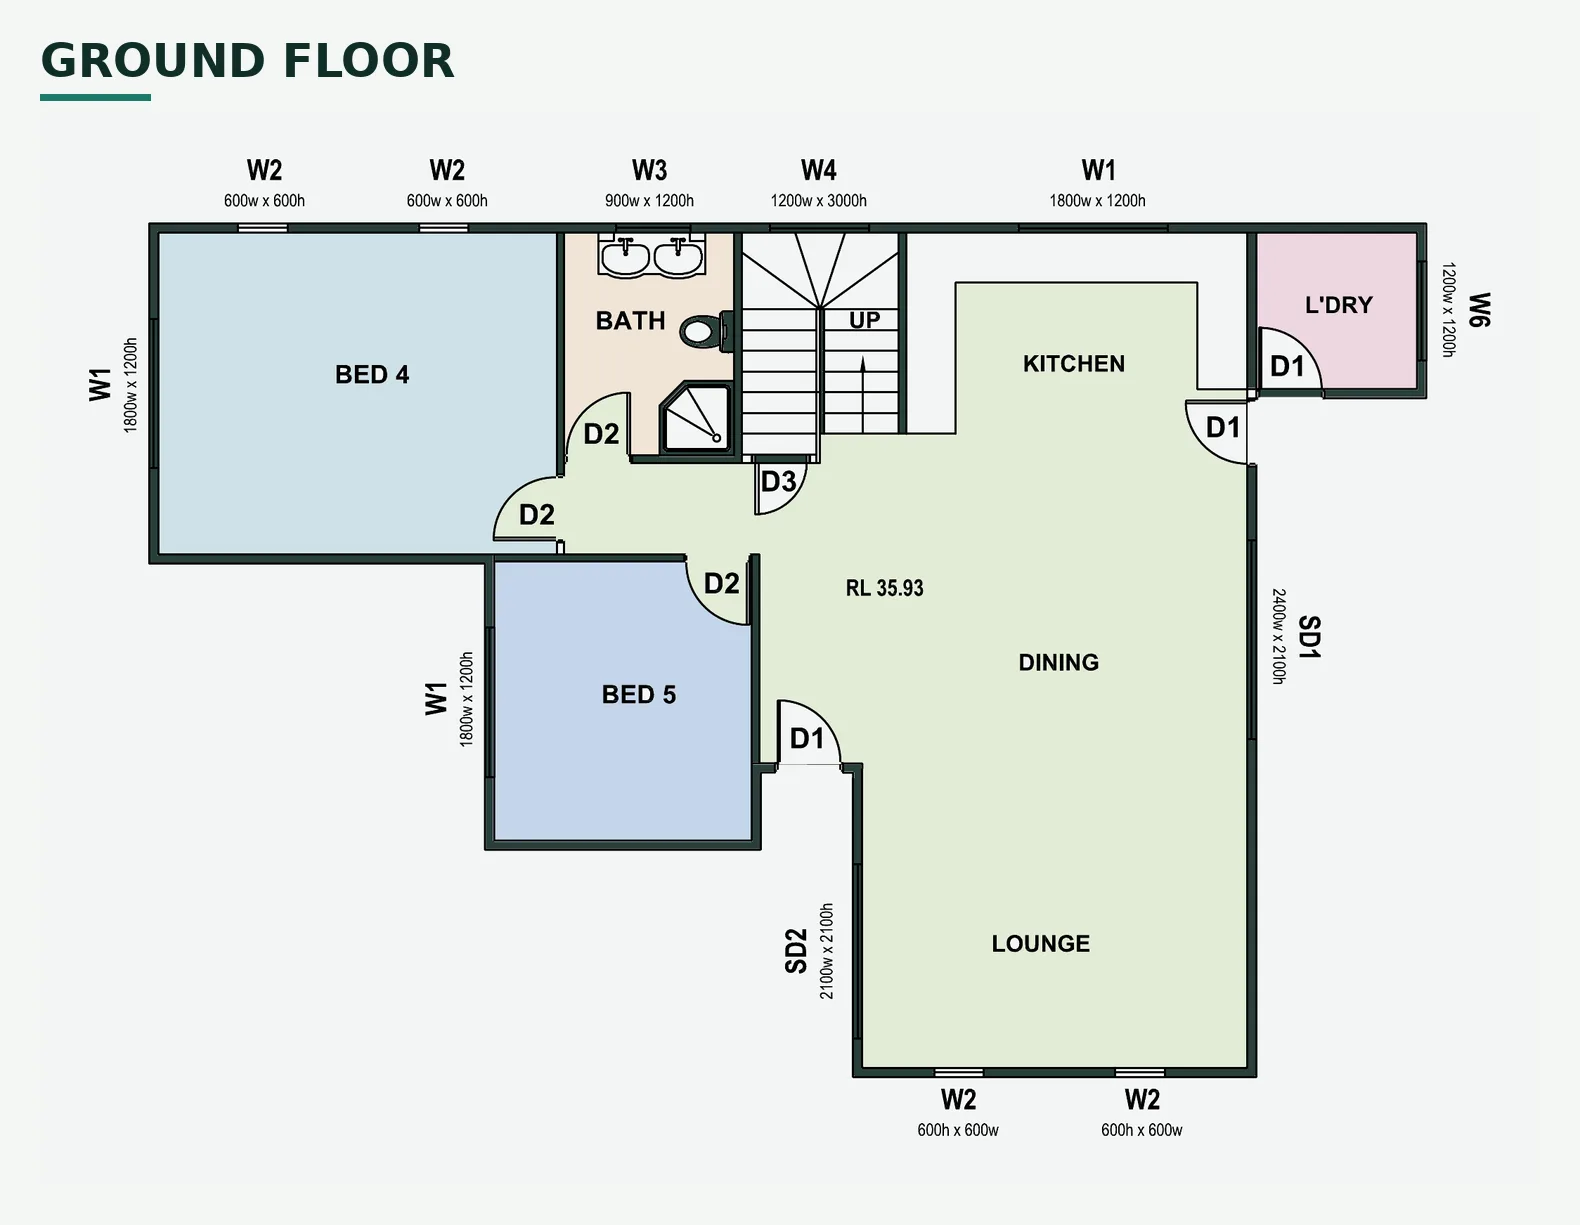
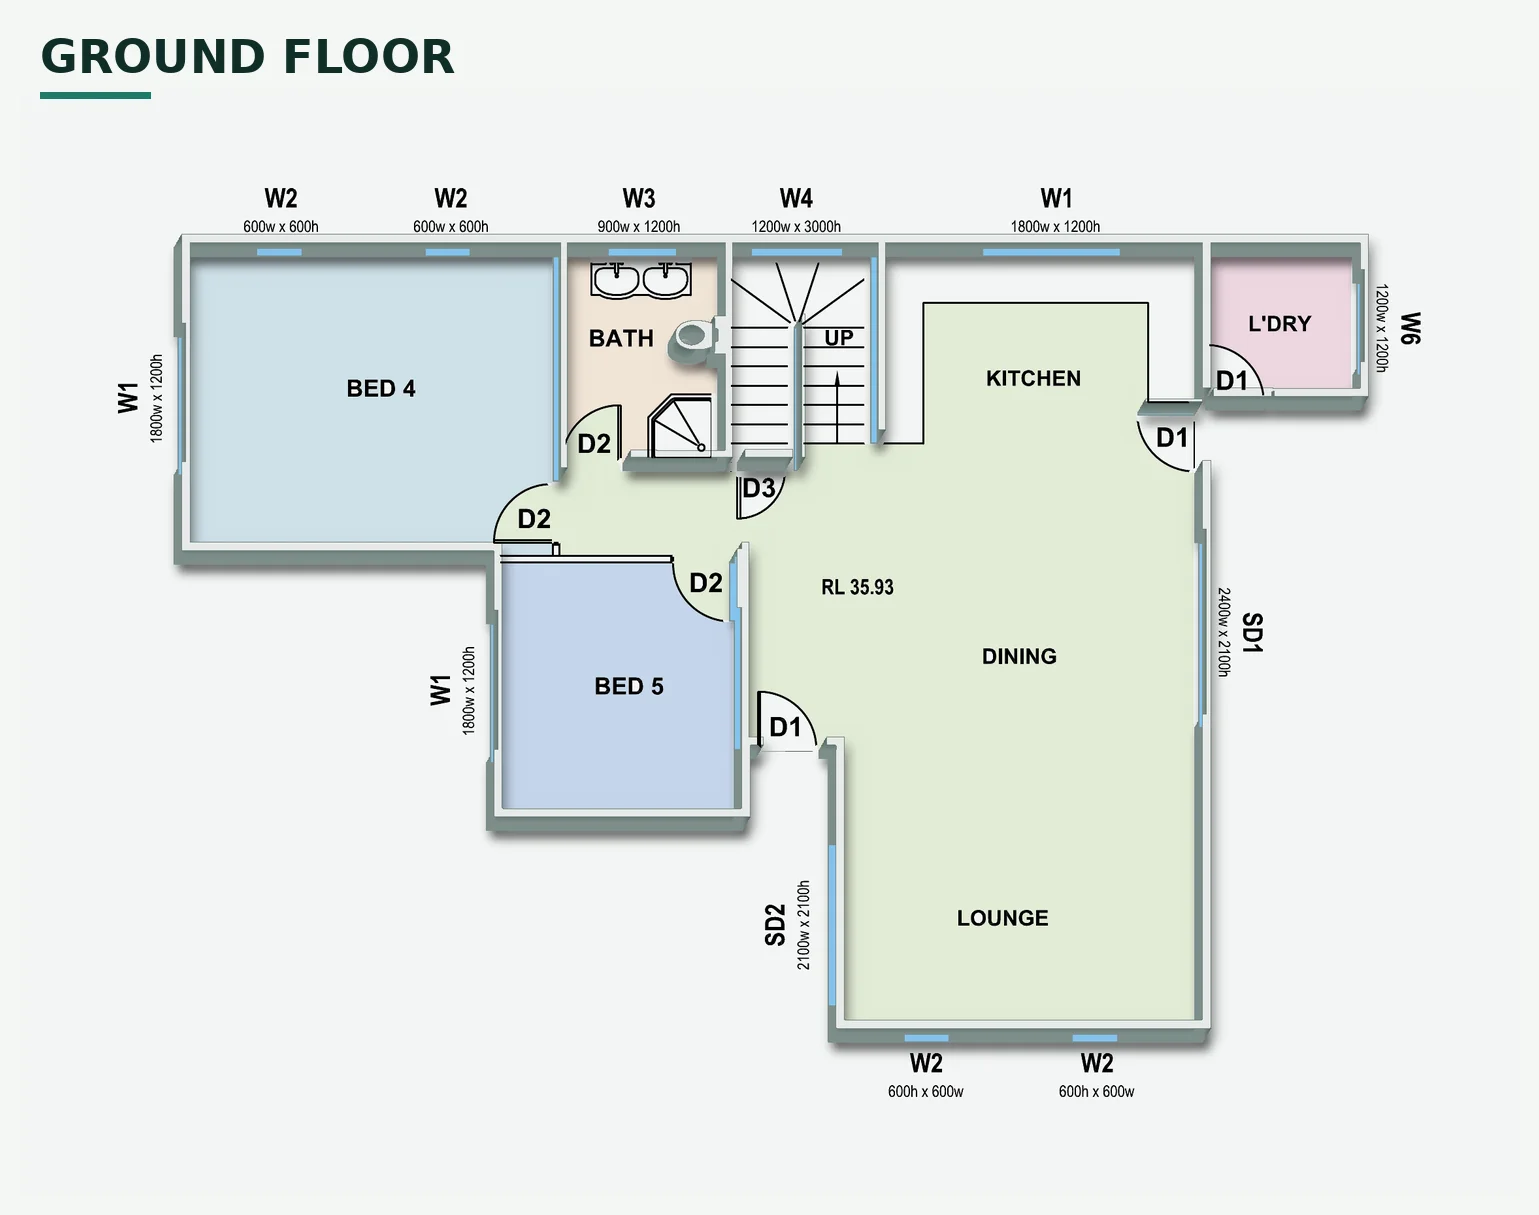
Ermington plans: 3D wall extrusion, shadows and window glazing
Claude-Session: https://claude.ai/code/session_015Zeghi8Wpnz2HogmioLoj9

diff --git a/portfolio/ermington-second-storey-addition.html b/portfolio/ermington-second-storey-addition.html
@@ -47,7 +47,7 @@
 <section class="band band-white">
   <div class="wrap">
     <p class="crumbs"><a href="/portfolio.html">&larr; All projects</a></p>
-    <ul class="gallery plans"><li><button type="button" class="shot" data-full="/images/ermington-second-storey-addition-01.webp" data-alt="Floor plan 1 of 2: second-storey addition, Ermington"><img src="/images/ermington-second-storey-addition-01.webp" alt="Floor plan 1 of 2: second-storey addition, Ermington" loading="eager" width="1580" height="1225"></button></li><li><button type="button" class="shot" data-full="/images/ermington-second-storey-addition-02.webp" data-alt="Floor plan 2 of 2: second-storey addition, Ermington"><img src="/images/ermington-second-storey-addition-02.webp" alt="Floor plan 2 of 2: second-storey addition, Ermington" loading="eager" width="1465" height="1650"></button></li></ul>
+    <ul class="gallery plans"><li><button type="button" class="shot" data-full="/images/ermington-second-storey-addition-01.webp" data-alt="Floor plan 1 of 2: second-storey addition, Ermington"><img src="/images/ermington-second-storey-addition-01.webp" alt="Floor plan 1 of 2: second-storey addition, Ermington" loading="eager" width="1539" height="1215"></button></li><li><button type="button" class="shot" data-full="/images/ermington-second-storey-addition-02.webp" data-alt="Floor plan 2 of 2: second-storey addition, Ermington"><img src="/images/ermington-second-storey-addition-02.webp" alt="Floor plan 2 of 2: second-storey addition, Ermington" loading="eager" width="1436" height="1610"></button></li></ul>
     <dl class="facts"><div><dt>Suburb</dt><dd>Ermington</dd></div><div><dt>Project</dt><dd>Second-storey addition</dd></div><div><dt>Images</dt><dd>2 floor plans</dd></div></dl>
   </div>
 </section>
